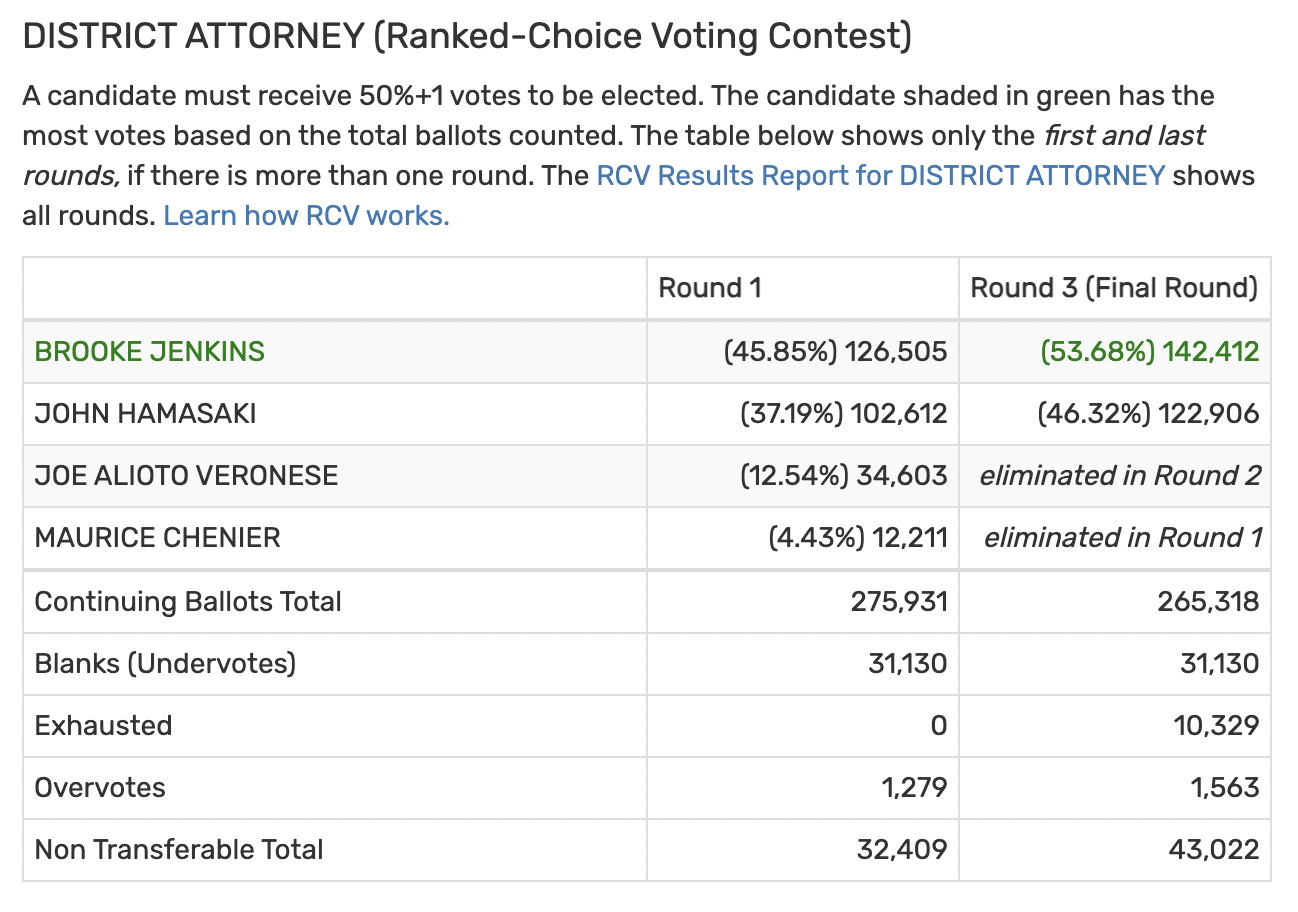
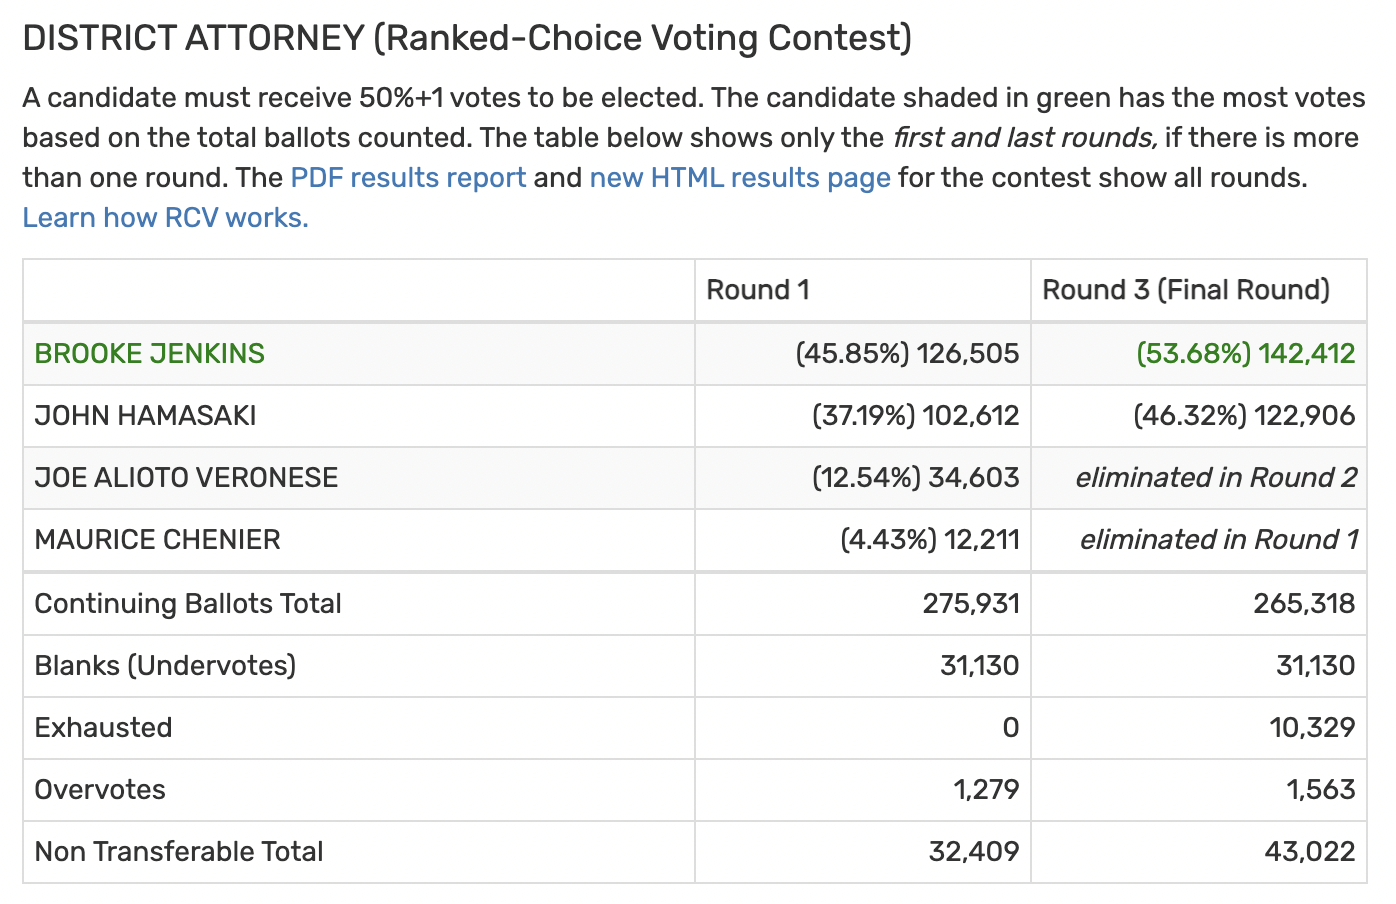
Update screenshot of summary.

Changed region(s): [[0.0, 0.2788, 0.9861, 0.9912], [0.0, 0.0929, 0.9861, 0.2478], [0.0, 0.0, 0.7088, 0.0619]]

diff --git a/README.md b/README.md
@@ -11,7 +11,7 @@ The script can parse both the XML and Excel (`.xlsx`) RCV reports
 from Dominion's system. (XML is the preferred report to parse
 since it's more structured and is an open data format.)
 
-For a demo page showing the examples generated for all RCV contests
+For a demo page showing examples generated for all RCV contests
 in the elections from 2019 to 2022, go here:
 
 * https://cjerdonek.github.io/rcv-results-reporter
@@ -37,10 +37,10 @@ doesn't anymore. See
 [here](https://www.sfelections.org/results/20181106/data/20181127/d2/20181127_d2.html)
 for an example of that from a 2018 contest.)
 
-The project can also output RCV results in a short summary format
+This project can also output RCV results in a short summary format
 for inclusion in a results summary page of several contests.
 For example, below is another screenshot from the demo of the summary
-this project made for the above contest.
+this project made for the same contest as above.
 
 ![Screenshot of an HTML summary of the November 2022 District Attorney
 RCV contest, as generated by this
